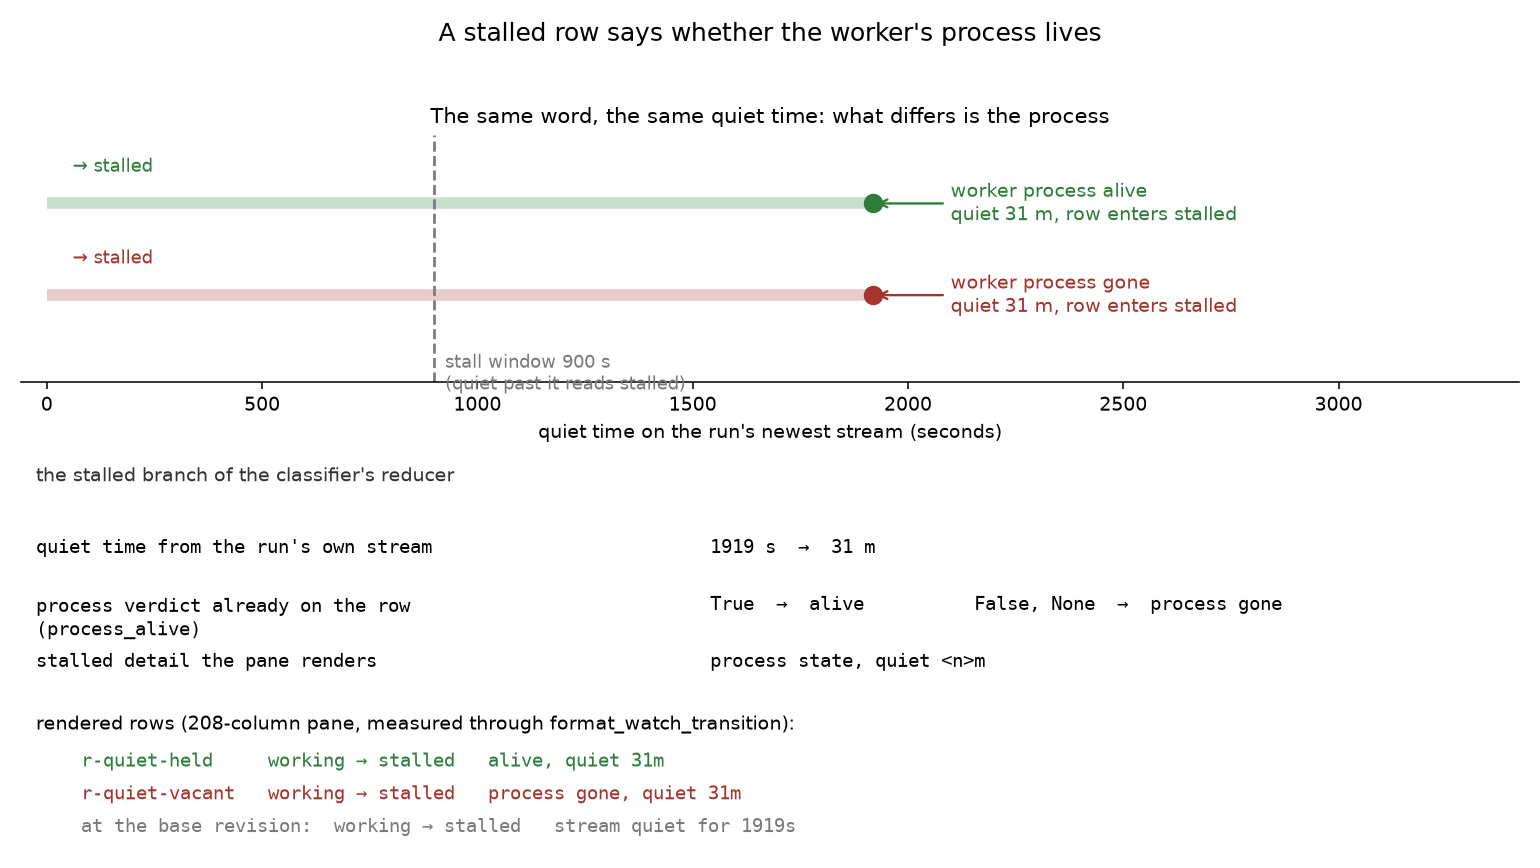
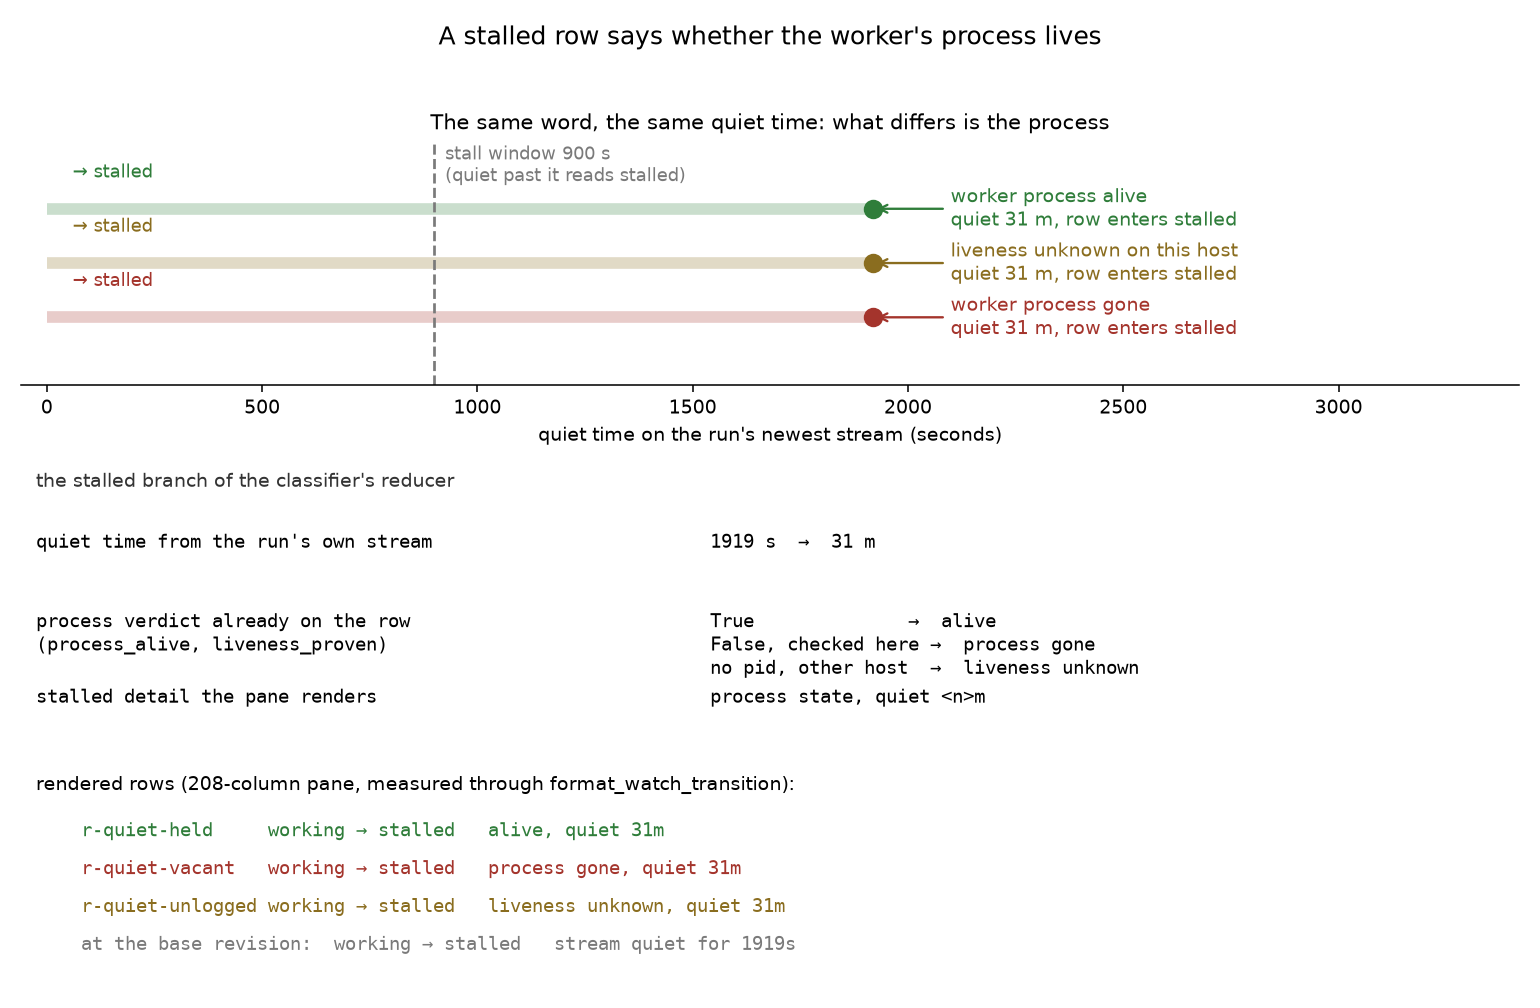
docs(crew): record the three-way process state on the stalled row
Update the stalled-row landing record and its evidence to the three-way
reading: liveness this host cannot establish now renders as "liveness
unknown" rather than "process gone", with the two new cases, the head the
review measured, and the second control named beside the earlier arms.

The evidence figure is redrawn for the third state: a lane for the
unproven reading, the classifier's mapping shown splitting on the row's
own liveness_proven, and the fourth rendered row. The minutes evidence
names the fixture-derived expectation and the mutation that reddens it.

diff --git a/docs/evidence/archive/a-stalled-row-says-whether-the-worker-lives-landed.html b/docs/evidence/archive/a-stalled-row-says-whether-the-worker-lives-landed.html
@@ -10,7 +10,7 @@
   <meta name="plan-summary" content="A worker killed mid-turn is a row on the snapshot that sees it die, not fifteen minutes later.">
   <meta name="plan-evidence-for" content="a-stalled-row-says-whether-the-worker-lives">
   <meta name="plan-verifies" content="a-stalled-row-says-whether-the-worker-lives#s2">
-  <meta name="plan-commits" content="8b759fa0,c5b2e184,8be6a8af">
+  <meta name="plan-commits" content="8b759fa0,c5b2e184,8be6a8af,2fd5f559,8236dcc3">
   <meta name="plan-artifacts" content="tests/test_watch_reports_death_at_once.py,docs/figures/a-stalled-row-says-whether-the-worker-lives/death-row-timeline.png,tests/test_death_row_reads_any_final_record.py,docs/figures/a-stalled-row-says-whether-the-worker-lives/tail_window_reads.png,tests/test_stalled_row_names_liveness.py,docs/figures/a-stalled-row-says-whether-the-worker-lives/stalled_row_process_state.png">
   <meta name="plan-recorded-at" content="2026-09-25">
   <meta name="plan-verdict" content="passed">
@@ -112,43 +112,59 @@
 
     <section id="s3">
       <h2>&sect;3 &mdash; A stalled row says alive or gone</h2>
-      <p><strong>Landed</strong> (<code>8be6a8af</code>). The stalled branch of
-      <code>_watch_verdict</code> in <code>reckon/crew/recovery.py</code> composes its reason clause
-      from the process verdict the classifier has already put on the row, so every row entering
-      <code>stalled</code> names its process state in words beside the quiet time it has measured.
-      Liveness that is not confirmed reads as <code>process gone</code>, the same conservative
-      direction the classifier's own <code>process_gone</code> hoist takes, so a row never offers a
-      resume into a process nobody could observe. The minutes are the row's own quiet time, floored,
-      so the figure can never claim more silence than was measured. The pane needed no change: the
-      ticker renders the classifier's detail through the clause helper it already had, and the words
-      reach the row unchanged.</p>
+      <p><strong>Landed</strong> (<code>8be6a8af</code>, states made three-way in
+      <code>8236dcc3</code>). The stalled branch of <code>_watch_verdict</code> in
+      <code>reckon/crew/recovery.py</code> composes its reason clause from the process verdict the
+      classifier has already put on the row, so every row entering <code>stalled</code> names its
+      process state in words beside the quiet time it has measured: <code>alive</code>,
+      <code>process gone</code>, or <code>liveness unknown</code>. The three states carry three
+      different remedies &mdash; a long quiet step needs nothing, a dead process needs a resume, an
+      unproven reading needs the check a reader would otherwise run by hand &mdash; and only a
+      reading taken on the reading host may call the process gone, which the row's own
+      <code>liveness_proven</code> records. A pointer with no recorded pid, or one whose pid belongs
+      to another host's process table, therefore reads as unknown rather than stating a death nobody
+      observed. The minutes are the row's own quiet time, floored, so the figure can never claim
+      more silence than was measured. The pane needed no change: the ticker renders the classifier's
+      detail through the clause helper it already had, and the words reach the row unchanged.</p>
       <figure>
-        <img src="/reckon/figures/a-stalled-row-says-whether-the-worker-lives/stalled_row_process_state.png" alt="Top: two runs, one with a live worker and one with a gone one, cross the 900 s stall window at the same 1919 s of quiet. Bottom: the classifier's composition and the three rendered rows — alive, quiet 31m; process gone, quiet 31m; and the base revision's stream quiet for 1919s.">
-        <figcaption>Two runs cross the same window at the same quiet time and need opposite
-        remedies. The row now says which is which, in the appended part of the reason the pane
-        measured through <code>format_watch_transition</code> at 208 columns; the base revision's
-        row is shown beneath them for comparison.</figcaption>
+        <img src="/reckon/figures/a-stalled-row-says-whether-the-worker-lives/stalled_row_process_state.png" alt="Top: three runs — one with a live worker, one whose liveness this host cannot establish, and one whose process is gone — cross the 900 s stall window at the same 1919 s of quiet. Bottom: the classifier's composition, mapping the row's process_alive and liveness_proven readings onto the three state words, above the four rendered rows: alive, quiet 31m; process gone, quiet 31m; liveness unknown, quiet 31m; and the base revision's stream quiet for 1919s.">
+        <figcaption>Three runs cross the same window at the same quiet time and need three
+        different remedies, two of which are actions and one of which is a check. The row now says
+        which is which, in the appended part of the reason the pane measured through
+        <code>format_watch_transition</code> at 208 columns; the base revision's row is shown
+        beneath them for comparison.</figcaption>
       </figure>
       <table>
         <thead><tr><th>Measure</th><th>Result</th></tr></thead>
         <tbody>
           <tr><td>Rendered row, worker process is a live child the test starts</td><td><code>alive, quiet 31m</code>; <code>process gone</code> absent</td></tr>
-          <tr><td>Rendered row, worker pid absent from the process table</td><td><code>process gone, quiet 31m</code>; <code>process gone</code> is the state word, <code>alive</code> absent</td></tr>
-          <tr><td>The same two rows at the base revision</td><td><code>stream quiet for 1919s</code> &mdash; neither process word appears</td></tr>
-          <tr><td>Quiet time on each run's own stream</td><td>1919&nbsp;s, named as 31&nbsp;m (floored), against a 900&nbsp;s window</td></tr>
-          <tr><td>Suite at head, one invocation (the two added suites plus <code>test_crew_recover.py</code>)</td><td>27 passed, exit 0</td></tr>
+          <tr><td>Rendered row, worker pid absent from the process table (checked on this host)</td><td><code>process gone, quiet 31m</code>; <code>alive</code> absent</td></tr>
+          <tr><td>Rendered row, pointer carries no pid</td><td><code>liveness unknown, quiet 31m</code>; <code>process gone</code> absent</td></tr>
+          <tr><td>Rendered row, pid recorded by another host</td><td><code>liveness unknown, quiet 31m</code>; <code>process gone</code> absent</td></tr>
+          <tr><td>The same rows at the base revision</td><td><code>stream quiet for 1919s</code> &mdash; no process word appears</td></tr>
+          <tr><td>Quiet time on each run's own stream</td><td>1919&nbsp;s, named as 31&nbsp;m (floored), against a 900&nbsp;s window; asserted against the fixture's own stream mtime, never against the recovery reader</td></tr>
+          <tr><td>The two unknown-state cases at <code>2fd5f559</code> (the head the review measured)</td><td>2 failed, 6 passed, exit 1 &mdash; both at <code>assert 'liveness unknown' in '&hellip; process gone, quiet 31m'</code></td></tr>
+          <tr><td>Suite at the reviewed head, one invocation (the two added suites plus <code>test_crew_recover.py</code>)</td><td>29 passed, exit 0</td></tr>
           <tr><td>The same invocation at the dispatch base</td><td>2 failed, 25 passed, exit 1 &mdash; exactly the two added liveness assertions</td></tr>
-          <tr><td>Staged paths' ruff findings against the count at base</td><td>unchanged (<code>recovery.py</code> 10, stall-clock test 1); the added test 0</td></tr>
+          <tr><td>Staged paths' ruff findings against the count at base</td><td>unchanged, 8 either side (all pre-existing in <code>recovery.py</code>); the added test 0</td></tr>
         </tbody>
       </table>
       <p><strong>Negative control, executed and logged.</strong> The declared control deletes the
       process-state clause from the stalled detail and leaves the quiet time, and the two-process
-      case must then fail on its own assertion. Applied to the committed head, with nothing else
+      case must then fail on its own assertion. Applied to the reviewed head, with nothing else
       changed, the live case fails at <code>assert 'alive' in '… quiet 31m'</code> &mdash; the
-      declared failure &mdash; the gone case fails at <code>assert 'process gone' in '… quiet
-      31m'</code>, and the stalled-clock assertion fails on the same wording (3 failed, 3 passed).
-      The file was then restored byte-exact (sha256 compared before and after, and against
+      declared failure &mdash; the gone case and the two unknown-state cases fail on their own
+      words, and the stalled-clock assertion fails on the same wording (5 failed, 3 passed). The
+      file was then restored byte-exact (sha256 compared before and after, and against
       <code>git show HEAD:reckon/crew/recovery.py</code>), leaving the worktree clean.</p>
+      <p><strong>Second control: the minutes assertion's independence.</strong> The named minutes
+      are asserted against the age the fixture itself wrote into the stream's mtime, not against the
+      recovery reader the renderer calls, so the two sides cannot move together. Shifting the
+      reading inside <code>_run_stream_quiet_seconds</code> by one minute, with nothing else
+      changed, reddens every liveness case at <code>assert 32 == (1919 // 60)</code> &mdash; the
+      fixture's independent figure &mdash; and the stall-clock magnitude checks beside them (8
+      failed); the same shift previously moved the row and its expectation together. The helper was
+      restored byte-exact by the same sha256 comparison.</p>
       <p>At the base revision the two added cases failed on the words alone and every other case
       passed, and at this head every case passes, so the added-failure delta is zero and no subset
       re-run was needed. The live case's run id is deliberately neutral

diff --git a/docs/plans/a-stalled-row-says-whether-the-worker-lives.html b/docs/plans/a-stalled-row-says-whether-the-worker-lives.html
@@ -174,29 +174,40 @@
     <code>reckon/crew/ticker.py</code> and <code>tests/test_stalled_row_names_liveness.py</code>.</p>
 
     <h3 id="s3-landed">Landed &mdash; node <code>stalled-row-names-liveness</code></h3>
-    <p><strong>Landed</strong> (<code>8be6a8af</code>). The stalled branch of
-    <code>_watch_verdict</code> in <code>reckon/crew/recovery.py</code> composes its reason clause
-    from the process verdict the classifier has already put on the same row, so the whole detail is
-    <code>alive, quiet 46m</code> or <code>process gone, quiet 15m</code> &mdash; the word the stall
-    census found a coordinator checking by hand, in the appended part of the reason the pane prints
-    beside the node rather than in a colour or a glyph. Liveness that is not confirmed reads as
-    gone, the same conservative direction the classifier's own <code>process_gone</code> hoist
-    takes, so a row never invites a resume into a process nobody could observe. The minutes are the
-    row's own quiet time, floored, so the figure never claims more silence than was measured.
-    <code>reckon/crew/ticker.py</code> needed no change: the pane renders the classifier's detail
-    through its existing reason clause, and the words reach the row unchanged.</p>
-    <p><strong>Evidence:</strong> two cases in <code>tests/test_stalled_row_names_liveness.py</code>
-    (2 passed) render one stalled row per process state through the classifier, the watcher
-    snapshot, the transition the events log persists, and <code>format_watch_transition</code> at
-    the 208-column pane. Each asserts the row names its own state and not the other's, and that the
-    named minutes equal the quiet time the classifier measured. The stalled-detail assertion in
-    <code>tests/test_stall_clock_starts_at_the_attempt.py</code> was moved to the new wording in the
-    same commit, so no file landed red. The base arm fails on exactly those two assertions and
-    nothing else, and the declared negative control was executed and logged: with the process-state
-    clause deleted from the stalled detail, the live-process case fails on its own
-    <code>alive</code> assertion. Both added files and the touched suite pass in one invocation
-    against base with zero added failures, and the staged paths' ruff findings equal their count at
-    base. Figures and measurements in
+    <p><strong>Landed</strong> (<code>8be6a8af</code>, process states made three-way in
+    <code>8236dcc3</code>). The stalled branch of <code>_watch_verdict</code> in
+    <code>reckon/crew/recovery.py</code> composes its reason clause from the process verdict the
+    classifier has already put on the same row, so the whole detail is <code>alive, quiet 46m</code>,
+    <code>process gone, quiet 15m</code>, or <code>liveness unknown, quiet 15m</code> &mdash; the
+    word the stall census found a coordinator checking by hand, in the appended part of the reason
+    the pane prints beside the node rather than in a colour or a glyph. The three states are three
+    different remedies (a long quiet step needs nothing, a dead process needs a resume, an unproven
+    reading needs the check a reader would otherwise run by hand), and the third is not a death:
+    <code>process gone</code> is said only when a pid was checked on the reading host and found dead,
+    which the row's own <code>liveness_proven</code> records. A pointer with no recorded pid, or one
+    whose pid belongs to another host's process table, therefore reads as unknown rather than
+    claiming an observation nobody made. The minutes are the row's own quiet time, floored, so the
+    figure never claims more silence than was measured. <code>reckon/crew/ticker.py</code> needed no
+    change: the pane renders the classifier's detail through its existing reason clause, and the
+    words reach the row unchanged.</p>
+    <p><strong>Evidence:</strong> four cases in <code>tests/test_stalled_row_names_liveness.py</code>
+    (4 passed) render one stalled row per state through the classifier, the watcher snapshot, the
+    transition the events log persists, and <code>format_watch_transition</code> at the 208-column
+    pane: a live child, an absent pid checked here, a pointer with no pid, and a pid recorded by
+    another host. Each asserts the row names its own state and not another's. The named minutes are
+    asserted against the age the fixture itself wrote into the stream's mtime, never against the
+    recovery reader the renderer calls, so the two sides cannot drift together; the stalled-detail
+    assertion in <code>tests/test_stall_clock_starts_at_the_attempt.py</code> takes its expectation
+    from the fixture's declared stream age for the same reason, and was moved to the new wording in
+    the first commit so no file landed red. At <code>2fd5f559</code> the two unproven-state cases
+    fail on <code>assert 'liveness unknown' in '&hellip; process gone, quiet 31m'</code> and nothing
+    else did. The declared negative control was executed and logged: with the process-state clause
+    deleted from the stalled detail, the live case fails on its own <code>alive</code> assertion.
+    A second logged mutation shifts the quiet reading by a minute, and every liveness case then
+    fails at <code>assert 32 == (1919 // 60)</code> &mdash; the fixture's independent figure &mdash;
+    which is what an expectation taken from the reader could not do. The three measured files pass
+    in one invocation at the reviewed head (29 passed, exit 0) with zero added failures against
+    base, and the staged paths' ruff findings equal their count at base. Figures and measurements in
     <a href="/reckon/evidence/archive/a-stalled-row-says-whether-the-worker-lives-landed#s3">&sect;3
     of the landed evidence record</a>.</p>
 

diff --git a/docs/figures/a-stalled-row-says-whether-the-worker-lives/stalled_row_process_state.py b/docs/figures/a-stalled-row-says-whether-the-worker-lives/stalled_row_process_state.py
@@ -1,10 +1,12 @@
 """Draw what a stalled row now says about the run's process.
 
-Two runs cross the same stall window with the same quiet time and opposite
-remedies: one whose worker process is still alive and thinking, and one whose
-process is gone. The row names which is which, in words, beside the minutes it
-has been quiet — so the distinction reaches a reader who cannot see a colour,
-and a coordinator acts on the reading rather than on the word "stalled" alone.
+Three runs cross the same stall window with the same quiet time and different
+remedies: one whose worker process is still alive and thinking, one whose
+process this host checked and found gone, and one whose liveness no reading
+here can establish. The row names which is which, in words, beside the minutes
+it has been quiet — so the distinction reaches a reader who cannot see a
+colour, a death is never claimed that nobody observed, and a coordinator acts
+on the reading rather than on the word "stalled" alone.
 
 The top panel is the time each run spent quiet against the window; the bottom
 panel is the classifier's own composition, with the exact reason clause the
@@ -26,6 +28,7 @@ MINUTES = int(QUIET) // 60
 
 LIVE_COLOUR = "#2f7d3a"
 GONE_COLOUR = "#a4342c"
+UNKNOWN_COLOUR = "#8a6d1f"
 WINDOW_COLOUR = "#7a7a7a"
 STREAM_COLOUR = "#4a6fa5"
 
@@ -34,7 +37,7 @@ FIGURES = Path(__file__).parent
 
 def main() -> None:
     fig, (timeline, clause) = plt.subplots(
-        2, 1, figsize=(11.0, 6.2), gridspec_kw={"height_ratios": [1.0, 1.15]}
+        2, 1, figsize=(11.0, 7.2), gridspec_kw={"height_ratios": [1.0, 1.35]}
     )
     fig.suptitle(
         "A stalled row says whether the worker's process lives",
@@ -44,7 +47,8 @@ def main() -> None:
 
     # ── Top: quiet time against the quiet 15 m window ─────────────────────
     rows = [
-        (1.0, "worker process alive", LIVE_COLOUR),
+        (1.2, "worker process alive", LIVE_COLOUR),
+        (0.6, "liveness unknown on this host", UNKNOWN_COLOUR),
         (0.0, "worker process gone", GONE_COLOUR),
     ]
     for y, label, colour in rows:
@@ -79,14 +83,14 @@ def main() -> None:
     timeline.axvline(WINDOW, color=WINDOW_COLOUR, lw=1.4, ls="--")
     timeline.text(
         WINDOW + 25,
-        -0.62,
+        1.92,
         f"stall window {int(WINDOW)} s\n(quiet past it reads stalled)",
         fontsize=9,
         color=WINDOW_COLOUR,
         va="top",
     )
     timeline.set_xlim(-60, QUIET + 1500)
-    timeline.set_ylim(-0.95, 1.75)
+    timeline.set_ylim(-0.75, 1.95)
     timeline.set_yticks([])
     timeline.set_xlabel("quiet time on the run's newest stream (seconds)")
     timeline.set_title(
@@ -108,18 +112,22 @@ def main() -> None:
     steps = [
         ("quiet time from the run's own stream", f"{int(QUIET)} s  →  {MINUTES} m"),
         (
-            "process verdict already on the row\n(process_alive)",
-            "True  →  alive          False, None  →  process gone",
+            "process verdict already on the row\n(process_alive, liveness_proven)",
+            (
+                "True              →  alive\n"
+                "False, checked here →  process gone\n"
+                "no pid, other host  →  liveness unknown"
+            ),
         ),
         ("stalled detail the pane renders", "process state, quiet <n>m"),
     ]
-    y = 0.74
+    y = 0.80
     for left, right in steps:
         clause.text(0.01, y, left, fontsize=10, va="top", family="monospace")
         clause.text(0.46, y, right, fontsize=10, va="top", family="monospace")
-        y -= 0.20
+        y -= 0.235
 
-    y -= 0.02
+    y -= 0.03
     clause.text(
         0.01,
         y,
@@ -127,7 +135,7 @@ def main() -> None:
         fontsize=10,
         va="top",
     )
-    y -= 0.13
+    y -= 0.14
     rows_text = [
         (
             "r-quiet-held     working → stalled   alive, quiet 31m",
@@ -136,6 +144,10 @@ def main() -> None:
         (
             "r-quiet-vacant   working → stalled   process gone, quiet 31m",
             GONE_COLOUR,
+        ),
+        (
+            "r-quiet-unlogged working → stalled   liveness unknown, quiet 31m",
+            UNKNOWN_COLOUR,
         ),
         (
             "at the base revision:  working → stalled   stream quiet for 1919s",
